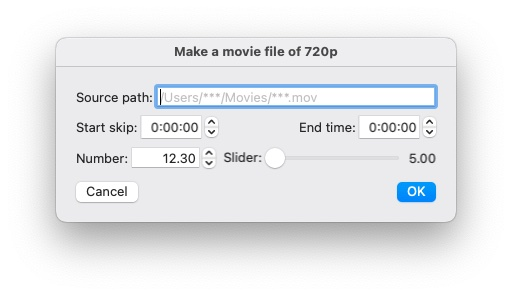
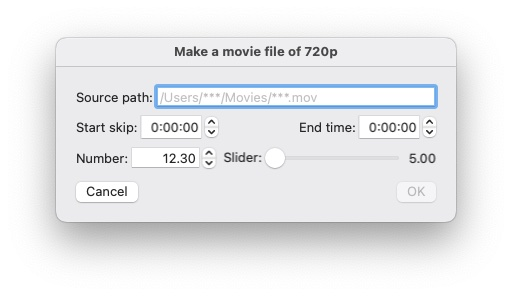
Version 0.0b

Changed region(s): [[0.75, 0.6081, 0.875, 0.6993]]

diff --git a/queryByGUI/main.m b/queryByGUI/main.m
@@ -11,9 +11,6 @@
 #define SPACING 8
 #define EXSPACE 2.5
 
-NSString *objectID(NSObject *obj) {
-	return [NSString stringWithFormat:@"%08lX", (NSUInteger)obj];
-}
 void error_return(NSString *msg) {
 	fprintf(stderr, "%s\n", msg.UTF8String);
 	exit(1);
@@ -190,12 +187,16 @@ static void shift_view(NSView *view, NSSize shift) {
 }
 @end
 
-@interface Delegate : NSObject
+@interface Delegate : NSObject <NSTextFieldDelegate> {
+	NSMutableArray<NSTextField *> *mandatoryTexts;
+}
 @property (readonly) NSMutableArray<PlacedInfo *> *controls;
+@property NSButton *OKButton;
 @end
 @implementation Delegate
 - (instancetype)init {
 	if ((self = [super init]) == nil) return nil;
+	mandatoryTexts = NSMutableArray.new;
 	_controls = NSMutableArray.new;
 	return self;
 }
@@ -208,6 +209,20 @@ static void shift_view(NSView *view, NSSize shift) {
 	[NSApp terminate:nil];
 }
 - (void)dummyAction:(id)sender {}
+- (void)addMandatoryText:(NSTextField *)txt {
+	[mandatoryTexts addObject:txt];
+	txt.delegate = self;
+}
+- (void)checkMandatoryTexts {
+	if (_OKButton == nil) return;
+	BOOL ready = YES;
+	for (NSTextField *txt in mandatoryTexts)
+		if (txt.stringValue.length == 0) { ready = NO; break; }
+	_OKButton.enabled = ready;
+}
+- (void)controlTextDidEndEditing:(NSNotification *)notification {
+	[self checkMandatoryTexts];
+}
 @end
 
 @interface RadioButtons : NSView
@@ -272,6 +287,9 @@ PlacedInfo *mk_text(NSDictionary *item) {
 	NSTextField *txt = [NSTextField textFieldWithString:text];
 	if ((text = item[@"placeholder"]) != nil && [text isKindOfClass:NSString.class])
 		txt.placeholderString = text;
+	NSNumber *num;
+	if ((num = item[@"mandatory"]) != nil && num.boolValue)
+		[delegate addMandatoryText:txt];
 	[txt sizeToFit];
 	return mk_placed_info(item, txt, @[@"title"],
 		^(id txt) { return ((NSTextField *)txt).stringValue; });
@@ -465,8 +483,11 @@ int main(int argc, const char * argv[]) {
 		info.properties = @{@"right":@"window", @"lower":@"window"};
 		[elements addObject:(infoByName[[info setupName]] = info)];
 	}
-	if (OKBtn != nil) OKBtn.keyEquivalent = @"\r";
-
+	if (OKBtn != nil) {
+		OKBtn.keyEquivalent = @"\r";
+		delegate.OKButton = OKBtn;
+		[delegate checkMandatoryTexts];
+	}
 	NSRect rect = {0,0,400,200};
 	id value;
 	if ((value = info[@"width"]) != nil) rect.size.width = [value doubleValue];

diff --git a/README.md b/README.md
@@ -10,7 +10,7 @@ You can specify the GUI elements and the arrangement in the window
 by feeding a text in JSON format from the standard input.
 
 When the user click one of the [push buttons](#pushButton) in the window,
-the process of quiryByGUI stops after it outputs a text to the standard output that
+the process of queryByGUI stops after it outputs a text to the standard output that
 expresses a list of name-value pairs.
 
 <div style="text-align:right">June 4, 2022.</div>
@@ -74,7 +74,11 @@ ex. `{"type":"label","text":"Specify the name of fruit."}`
 |`"type"`|string|`"text"`|N/A|
 |`"text"`|string|the initial value|null string|
 |`"placeholder"`|string|shown as a template|null string|
+|`"mandatory"`|boolean|indicates mandatory[*1](#mandarotyText)|false|
 |`"title"`|string|the title string shown at the left-side|null string|
+
+<a name=mandarotyText></a>*1. `OK` button becomes enabled only when
+all of the mandatory **text**s have text value.
 
 <a name=digits></a>
 #### digits
@@ -88,17 +92,18 @@ ex. `{"type":"label","text":"Specify the name of fruit."}`
 |`"fraction"`|number|the number of columns in the fraction part|2|
 |`"title"`|string|the title string shown at the left-side|null string|
 |`"stepper"`|boolean|indicates if a stepper follows it|false|
+|`"increment"`|number|increment/decrement value of stepper|1|
 
 #### date
 |string|value type|value|default value|
 |-----|-----|-----|-----|
 |`"type"`|string|`"date"`|N/A|
-|`"value"`|string|the initial value[*1](#dateForm)|`"today"`|
-|`"min"`|string|the earliest date allowed[*1](#dateForm)|no limit|
-|`"max"`|string|the latest date allowed[*1](#dateForm)|no limit|
+|`"value"`|string|the initial value[*2](#dateForm)|`"today"`|
+|`"min"`|string|the earliest date allowed[*2](#dateForm)|no limit|
+|`"max"`|string|the latest date allowed[*2](#dateForm)|no limit|
 |`"title"`|string|the title string shown at the left-side|null string|
 
-<a name=dateForm></a>*1. `"today"` or a string representing a date,
+<a name=dateForm></a>*2. `"today"` or a string representing a date,
 a sequence of four digits of year, two digits of month, and two digits of day,
 separated by `-`. 
 For example, `"2022-06-04"` means June 4th in the year 2022.
@@ -107,12 +112,12 @@ For example, `"2022-06-04"` means June 4th in the year 2022.
 |string|value type|value|default value|
 |-----|-----|-----|-----|
 |`"type"`|string|`"time"`|N/A|
-|`"value"`|string|the initial value[*2](#timeForm)|`"now"`|
-|`"min"`|string|the earliest time allowed[*2](#timeForm)|`"00:00:00"`|
-|`"max"`|string|the latest time allowed[*2](#timeForm)|`"23:59:59"`|
+|`"value"`|string|the initial value[*3](#timeForm)|`"now"`|
+|`"min"`|string|the earliest time allowed[*3](#timeForm)|`"00:00:00"`|
+|`"max"`|string|the latest time allowed[*3](#timeForm)|`"23:59:59"`|
 |`"title"`|string|the title string shown at the left-side|null string|
 
-<a name=timeForm></a>*2. `"now"` or a string representing a time,
+<a name=timeForm></a>*3. `"now"` or a string representing a time,
 a sequence of two digits of hour from 00 to 23,
 two digits of minute from 00 to 59, and two digits of second from 00 to 59,
 separated by `:`. 
@@ -129,10 +134,10 @@ For example, `"18:23:03"` means 6:23:3 PM.
 |string|value type|value|default value|
 |-----|-----|-----|-----|
 |`"type"`|string|`"popup button"`|N/A|
-|`"choice"`|array of strings|names of choice[*3](#choice)|N/A|
+|`"choice"`|array of strings|names of choice[*4](#choice)|N/A|
 |`"title"`|string|the title string shown at the left-side|null string|
 
-<a name=choice></a>*3. Names shown as alternatives.
+<a name=choice></a>*4. Names shown as alternatives.
 A name start with `"*"` becomes the default choice.
 If no name has `"*"`, the first element in the name list becomes the default.
 
@@ -140,7 +145,7 @@ If no name has `"*"`, the first element in the name list becomes the default.
 |string|value type|value|default value|
 |-----|-----|-----|-----|
 |`"type"`|string|`"radio buttons"`|N/A|
-|`"choice"`|array of strings|names of choice[*3](#choice)|N/A|
+|`"choice"`|array of strings|names of choice[*4](#choice)|N/A|
 |`"columns"`|number|the number of columns|1|
 
 #### slider
@@ -161,13 +166,13 @@ If no name has `"*"`, the first element in the name list becomes the default.
 |string|value type|value|default value|
 |-----|-----|-----|-----|
 |`"type"`|string|`"push button"`|N/A|
-|`"title"`|string|the title string[*4](#buttonTitle)|null string|
+|`"title"`|string|the title string[*5](#buttonTitle)|null string|
 
 If no push button is included in the list of GUI elements,
 one `"OK"` button is automatically created and placed at the bottom right corner
 in the window.
 
-<a name=buttonTitle></a>*4. If the title is `"Cancel"`,
+<a name=buttonTitle></a>*5. If the title is `"Cancel"`,
 short cut key is set to Escape code.
 If the title is `"OK"`, short cut key is set to Newline code.
 
@@ -185,16 +190,22 @@ is neighboring with in both vertical and horizontal dimensions.
 |`"height"`|number|element height|natural size|
 |`"left"`|string|`"window"` or a name of another element|`window`|
 |`"right"`|string|`"window"` or a name of another element|none|
-|`"upper"`|string|`"window"` or a name of another element|none|
 |`"lower"`|string|`"window"` or a name of another element|`window`|
+|`"upper"`|string|`"window"` or a name of another element|none|
 |`"baseline"`|string|a name of another element|none|
 
 If you specify both `left` and `right` but not `width`,
-quiryByGUI assumes the width is flexible to set the positions of
+queryByGUI assumes the width is flexible to set the positions of
 left and right edges of the element as specified.
 The case of `upper`, `lower`, and `height` is the same.
 `"baseline"` is useful to align two elements
 as the vertical position of text baselines of them are same.
+
+When there is no element of specified name, queryByGUI outputs
+an error message and quits immediately.
+When the specification is redundant, queryByGUI uses items
+of higher priorities in the order of the above table,
+`width` is the highest, and `baseline` is the lowest.
 
 ## Output text
 The output text from queryByGUI is a sequence of lines,
@@ -202,17 +213,18 @@ in which each line is colon-separated name-value pair.
 The last line indicates which push button was clicked,
 for example, `Clicked:OK` when `OK` button was clicked.
 
-## Examples
+## Example
 
 When you run a shell script
 
 	#! /bin/bash
 	# queryByGUI sample code
 	#
-	queryByGUI << EOF
+	queryByGUI << EOF > /tmp/qBG_$$
 	{"title":"Make a movie file of 720p","height":156,
 	"elements":[
-	  {"type":"text","placeholder":"/Users/***/Movies/***.mov","title":"Source path:",
+	  {"type":"text","placeholder":"/Users/***/Movies/***.mov",
+		"title":"Source path:","mandatory":true,
 	    "upper":"window","left":"window","right":"window","name":"Path"},
 	  {"type":"time","title":"Start skip:","value":"00:00:00",
 	    "upper":"Path","name":"SS"},
@@ -229,7 +241,9 @@ When you run a shell script
 
 a window shown in Figure 1 is displayed.
 When you click the OK button after you operate GUI elements
-as shown in Figure 2, you will get the output text
+as shown in Figure 2, you will get a file at `/tmp/qBG_$$`
+containing the output text as follows, where
+`$$` is replaced with the process ID by bash.
 
 	Path:~/Movies/myAmazingMovie.mov 
 	SS:00:13:04
@@ -241,6 +255,26 @@ as shown in Figure 2, you will get the output text
 |![qBG1](Images/qBG1.jpg)|![qBG2](Images/qBG2.jpg)
 |:--:|:--:|
 |Figure 1.|Figure 2.|
+
+You may continue the shell script code as follows, for example.
+
+	# When Cancel button was clicked, remove output file and quit.
+	if [ `fgrep -q Clicked:Cancel /tmp/qBG_$$; echo $?` -eq 0 ]
+	then rm /tmp/qBG_$$; exit; fi
+	srcPath=`awk -F: '/^Path:/{print $2}' /tmp/qBG_$$`
+	ffmpeg -i $srcPath -s 1280x720\
+	 -ss `awk -F: '/^SS:/{printf "%s:%s:%s",$2,$3,$4}' /tmp/qBG_$$`\
+	 -to `awk -F: '/^ET:/{printf "%s:%s:%s",$2,$3,$4}' /tmp/qBG_$$`\
+	 -y `echo $srcPath | awk -F/ '{OSF="/";$NF="new.mp4";print}'`
+	rm /tmp/qBG_$$
+
+This script is converting a movie file into 1280x720 mpeg4 format
+named `new.mp4` under the same folder with the source movie file
+using `ffmpeg` command.
+
+Instead of typing in the full path by yourself,
+you can drag the `Finder`'s file icon and
+drop it into the text field in order to fill the field with the full path text. 
 
 ---
 &copy; Tatsuo Unemi, 2022. all rights reserved.
